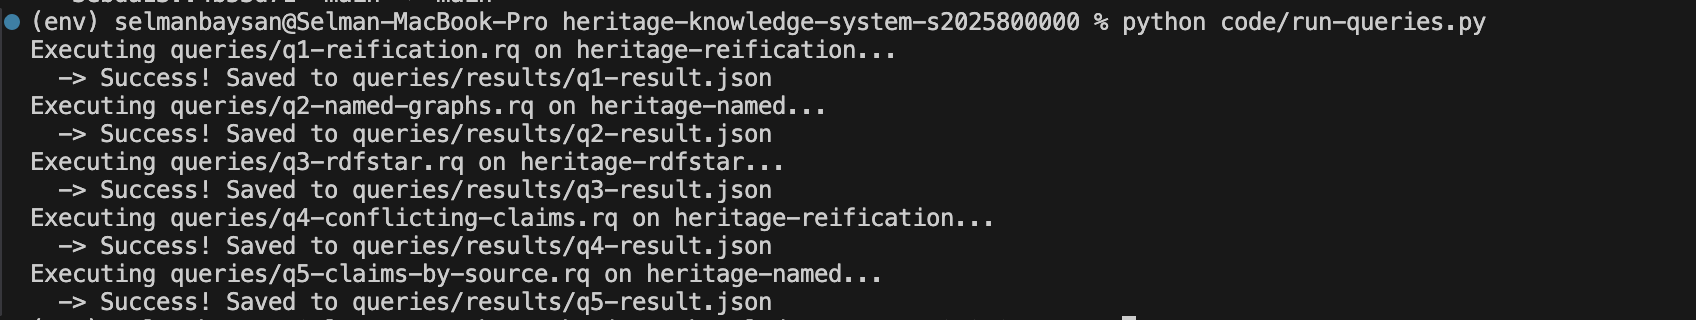
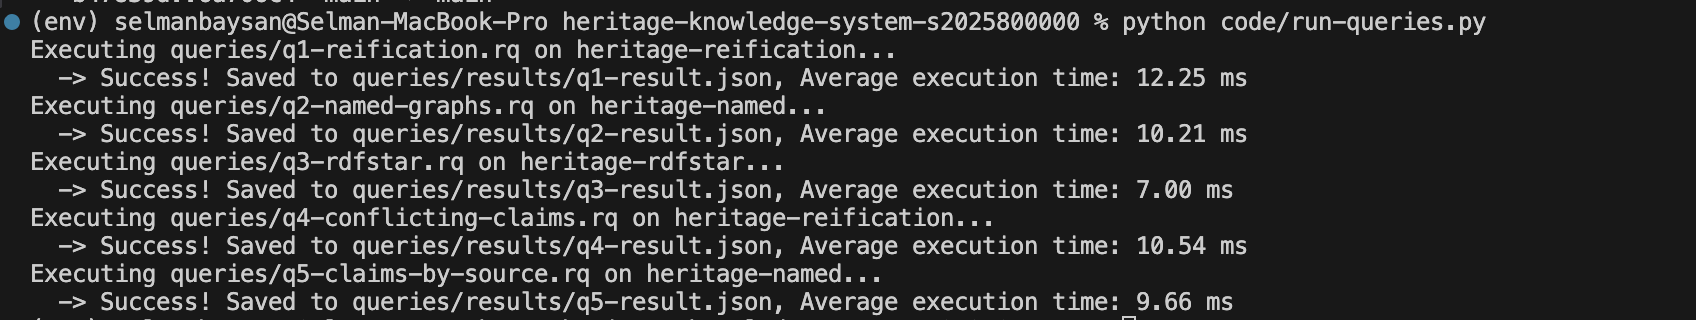
measure average SPARQL query execution time over multiple runs and update query execution screenshot.

diff --git a/code/run-queries.py b/code/run-queries.py
@@ -1,5 +1,6 @@
 import os
 import csv
+import time 
 from SPARQLWrapper import SPARQLWrapper, JSON
 
 GRAPHDB_URL = "http://localhost:7200/repositories"
@@ -35,6 +36,8 @@ QUERY_CONFIG = [
 def run_queries():
     os.makedirs("queries/results", exist_ok=True)
 
+    performance_results = []
+
     for config in QUERY_CONFIG:
         repo_url = f"{GRAPHDB_URL}/{config['repo']}"
         query_path = config['query_file']
@@ -50,13 +53,20 @@ def run_queries():
             sparql.setQuery(sparql_query)
             sparql.setReturnFormat(JSON)
 
-            results = sparql.query().convert()
+            timings = []
+            for _ in range(5):
+                start_time = time.perf_counter()
+                results = sparql.query().convert()
+                end_time = time.perf_counter()
+                timings.append((end_time - start_time) * 1000) # in milliseconds
+            
+            avg_time = sum(timings) / len(timings)
 
             import json
             with open(output_path, 'w') as f:
                 json.dump(results, f, indent=2)
             
-            print(f"  -> Success! Saved to {output_path}")
+            print(f"  -> Success! Saved to {output_path}, Average execution time: {avg_time:.2f} ms")
 
         except Exception as e:
             print(f"  -> Error: {e}")
